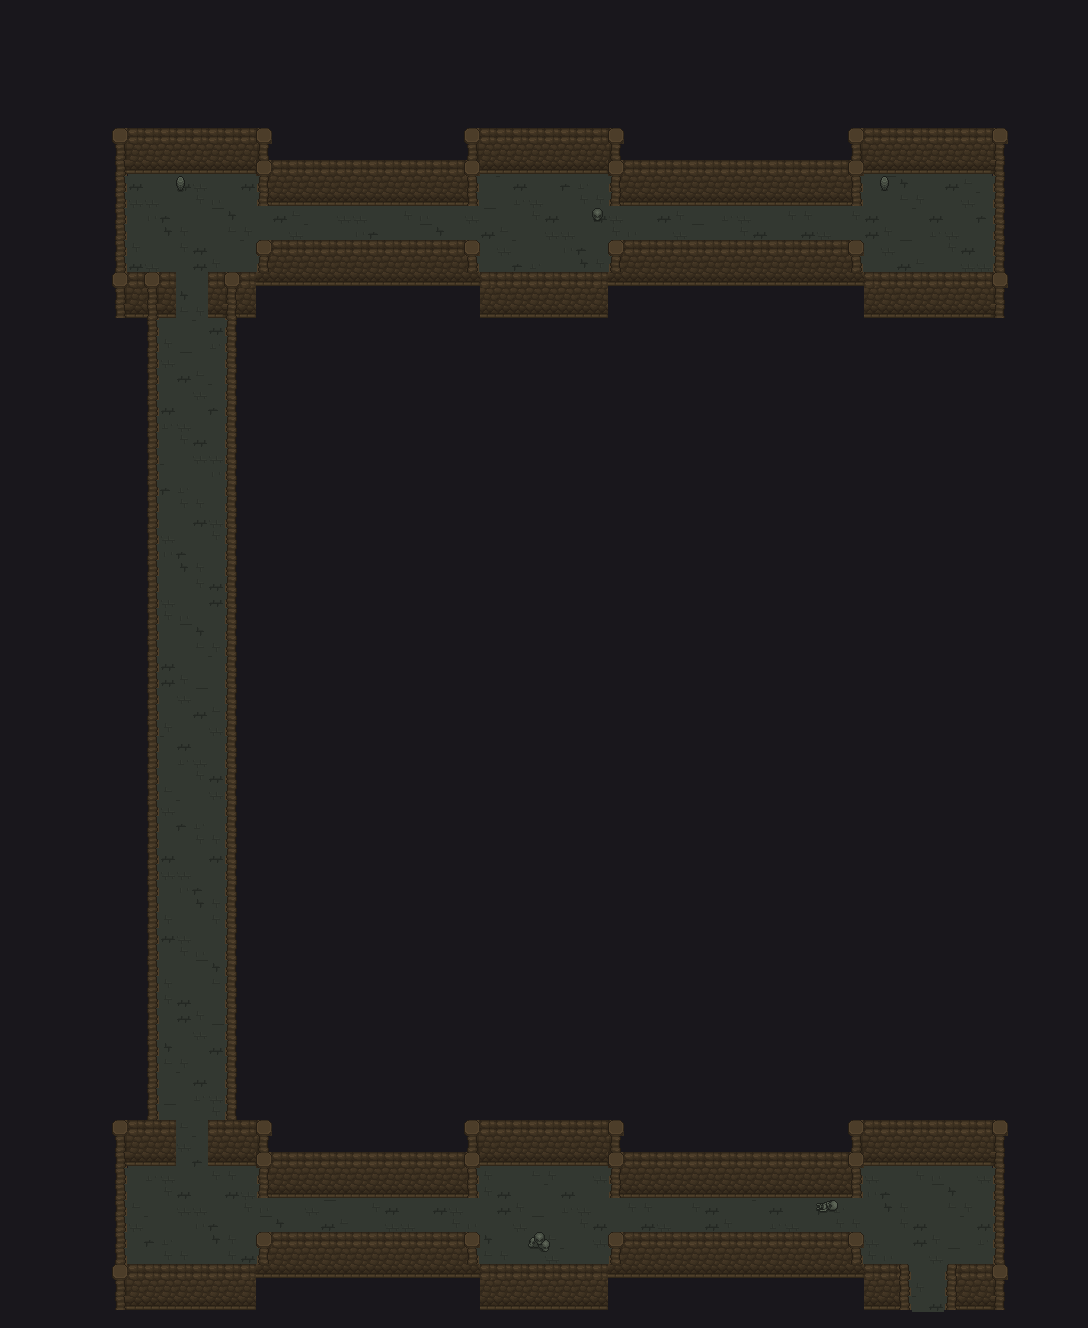
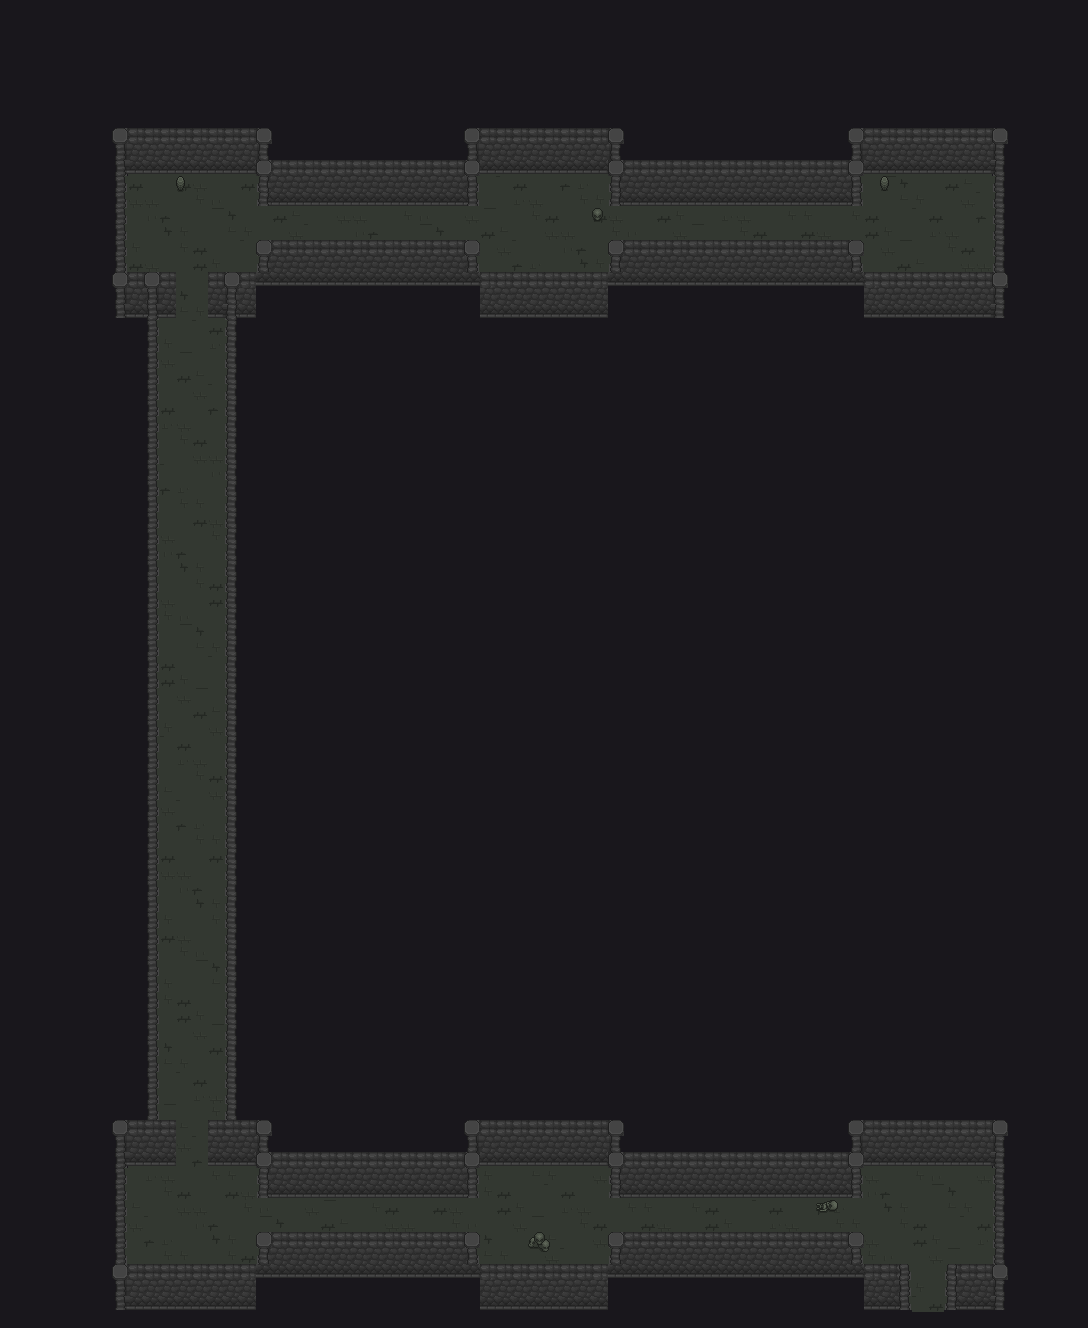
Use gray Mountain Passage walls and add first temple cobwebs
Rebuild Mountain Passage masonry and matching doors and fittings in neutral gray, retaining the corrected floor padding and green torches. Add the existing temple cobweb decorations to the first temple's rooms and horizontal passages while preserving its Heartstone chamber. Refresh affected script and artwork cache versions.

diff --git a/js/mountain-passage.js b/js/mountain-passage.js
@@ -1,15 +1,15 @@
-window.EMBER_ASSETS.DOCK_ORIGINAL_ASSETS.push(...[{"name":"passage_torch","w":32,"h":48,"frames":6,"src":"assets/interiors/mountain-passage/passage-torch.png?v=20260924-passage2"},{"name":"passage_door","w":32,"h":48,"frames":4,"src":"assets/interiors/mountain-passage/passage-door.png?v=20260924-passage2"},{"name":"passage_bars","w":32,"h":48,"frames":4,"src":"assets/interiors/mountain-passage/passage-bars.png?v=20260924-passage2"},{"name":"passage_vent","w":16,"h":16,"frames":1,"src":"assets/interiors/mountain-passage/passage-vent.png?v=20260924-passage2"},{"name":"passage_flame_r","w":112,"h":32,"frames":9,"src":"assets/interiors/mountain-passage/passage-flame_r.png?v=20260924-passage2"},{"name":"passage_saw","w":32,"h":32,"frames":6,"src":"assets/interiors/mountain-passage/passage-saw.png?v=20260924-passage2"},{"name":"passage_rail","w":92,"h":3,"frames":1,"src":"assets/interiors/mountain-passage/passage-rail.png?v=20260924-passage2"}]);
+window.EMBER_ASSETS.DOCK_ORIGINAL_ASSETS.push(...[{"name":"passage_torch","w":32,"h":48,"frames":6,"src":"assets/interiors/mountain-passage/passage-torch.png?v=20260924-passage3"},{"name":"passage_door","w":32,"h":48,"frames":4,"src":"assets/interiors/mountain-passage/passage-door.png?v=20260924-passage3"},{"name":"passage_bars","w":32,"h":48,"frames":4,"src":"assets/interiors/mountain-passage/passage-bars.png?v=20260924-passage3"},{"name":"passage_vent","w":16,"h":16,"frames":1,"src":"assets/interiors/mountain-passage/passage-vent.png?v=20260924-passage3"},{"name":"passage_flame_r","w":112,"h":32,"frames":9,"src":"assets/interiors/mountain-passage/passage-flame_r.png?v=20260924-passage3"},{"name":"passage_saw","w":32,"h":32,"frames":6,"src":"assets/interiors/mountain-passage/passage-saw.png?v=20260924-passage3"},{"name":"passage_rail","w":92,"h":3,"frames":1,"src":"assets/interiors/mountain-passage/passage-rail.png?v=20260924-passage3"}]);
 /* Mountain Passage: one through-route, nine optional branches and the original Ashfiend. */
 async function prepareExpandedMountainPassage(){
   if(W.maps.passage.mountainPassage)return;
-  const response=await fetch('assets/interiors/mountain-passage/layout.json?v=20260924-passage2');
+  const response=await fetch('assets/interiors/mountain-passage/layout.json?v=20260924-passage3');
   if(!response.ok)throw Error('Mountain passage layout could not load');
   const plans=await response.json();
   const frostExit=W.maps.passage.doors.find(d=>d.to==='world');
   const ashExit=W.maps.passage3.doors.find(d=>d.to==='world');
   const bossKind=W.maps.passage3.foes[0].k;
   const images=await Promise.all(Object.keys(plans).map(async id=>{
-    const image=new Image();image.src='assets/interiors/mountain-passage/'+id+'.png?v=20260924-passage2';
+    const image=new Image();image.src='assets/interiors/mountain-passage/'+id+'.png?v=20260924-passage3';
     await image.decode();return [id,image];
   }));
   for(const [id,image] of images){

diff --git a/index.html b/index.html
@@ -328,9 +328,9 @@ window.addEventListener("unhandledrejection", function (e) {
 <script src="js/generated/media-5.js?v=1790049472"></script>
 <script src="js/generated/media-6.js?v=1790049472"></script>
 <script src="js/generated/media-7.js?v=1790049472"></script>
-<script src="js/first-temple.js?v=20260924-passage1"></script>
+<script src="js/first-temple.js?v=20260924-cobwebs1"></script>
 <script src="js/sandspire-temple.js?v=20260924-passage1"></script>
-<script src="js/mountain-passage.js?v=20260924-passage2"></script>
+<script src="js/mountain-passage.js?v=20260924-passage3"></script>
 <script src="js/hollybeck-temple.js?v=20260924-passage1"></script>
 <script src="js/fishing.js?v=20260923-fishing-render3"></script>
 <script src="js/house-loot.js?v=20260924-heartstone-fix1"></script>

diff --git a/js/first-temple.js b/js/first-temple.js
@@ -41,6 +41,7 @@ async function prepareExpandedFirstTemple(){
       m.roomActors.push({n:'Temple treasure',spr:'temple71_chest',schoolArt:true,x,y,editKey:id+':loot:'+i,
         moveBlocks:[block],houseLoot:{id:id+':loot:'+i,gold,item:gold>0?(i%2?'potion':'dragonFish'):null,templeReward:true}});
     }
+    if(!plan.heartstone)addSandspireCobwebs(m);
     W.maps[id]=m;
   }
   placeOtherTempleHeartstones();

diff --git a/tools/build-mountain-passage.py b/tools/build-mountain-passage.py
@@ -104,13 +104,13 @@ def tint(image,flame=False):
   light=(r*54+g*183+b*19)/256
   if flame:rgb=(round(light*.64+14),round(light*.95+15),round(light*.54+16))
   elif (r,g,b)==(83,93,111):rgb=(round(light*.48+7),round(light*.52+8),round(light*.44+8))
-  else:rgb=(round(light*.88+16),round(light*.72+12),round(light*.48+8))
+  else:rgb=(round(light*.82+12),)*3
   data.append(tuple(min(255,max(0,v)) for v in rgb)+(a,))
  out.putdata(data);return out
 specs=[]
 for name,source,flame in [('torch','torch77_sn1',True),('door','dragon77_door',False),('bars','dragon77_bars',False),
                          ('vent','flame78_vent',False),('flame_r','dragon75_flame_r',True),('saw','dragon75_saw',False),('rail','dragon75_rail',False)]:
  a,im=asset(source);file='passage-'+name+'.png';tint(im,flame).save(OUT/file)
- specs.append(dict(name='passage_'+name,w=a['w'],h=a['h'],frames=a['frames'],src='assets/interiors/mountain-passage/'+file+'?v=20260924-passage2'))
+ specs.append(dict(name='passage_'+name,w=a['w'],h=a['h'],frames=a['frames'],src='assets/interiors/mountain-passage/'+file+'?v=20260924-passage3'))
 (OUT/'sprites.json').write_text(json.dumps(specs,indent=2)+'\n')
 print(f'{len(plans)} sections, 89 rooms, {area(plans)} floor tiles (exactly Hollybeck), {count} chests, one original Ashfiend.')

diff --git a/tools/build-first-temple.py b/tools/build-first-temple.py
@@ -170,7 +170,7 @@ for id,m in layout.items():
     # Native floor padding extends a few pixels outside the walkable mask.
     # Give that apron the floor tint too, so no solid outline surrounds walls.
     elif (r,g,b,a) in APRON or (px//16*16,py//16*16) in floor:color=(round(light*.48+7),round(light*.52+8),round(light*.44+8),a)
-    else:color=(min(255,round(light*.88+16)),min(255,round(light*.72+12)),min(255,round(light*.48+8)),a)
+    else:shade=min(255,round(light*.82+12));color=(shade,shade,shade,a)
     pixels.append(color)
   im.putdata(pixels)
  im.save(temporary)
